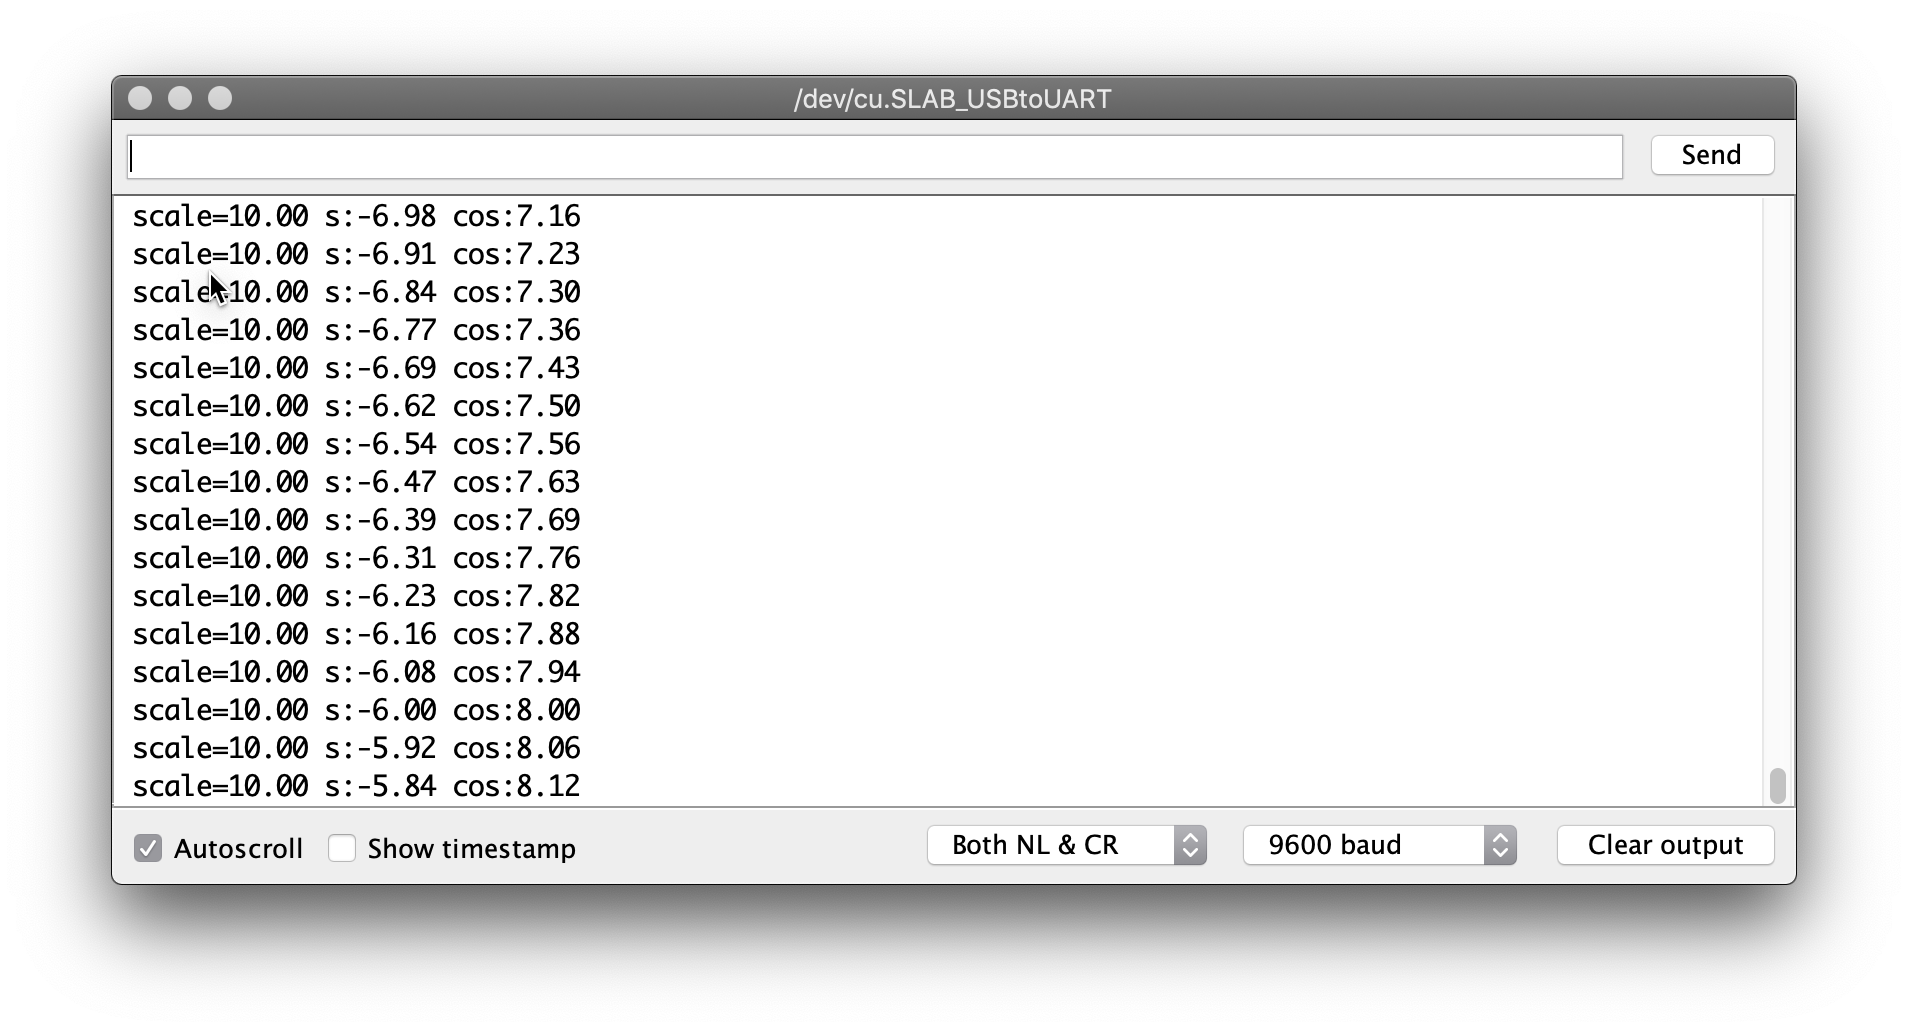
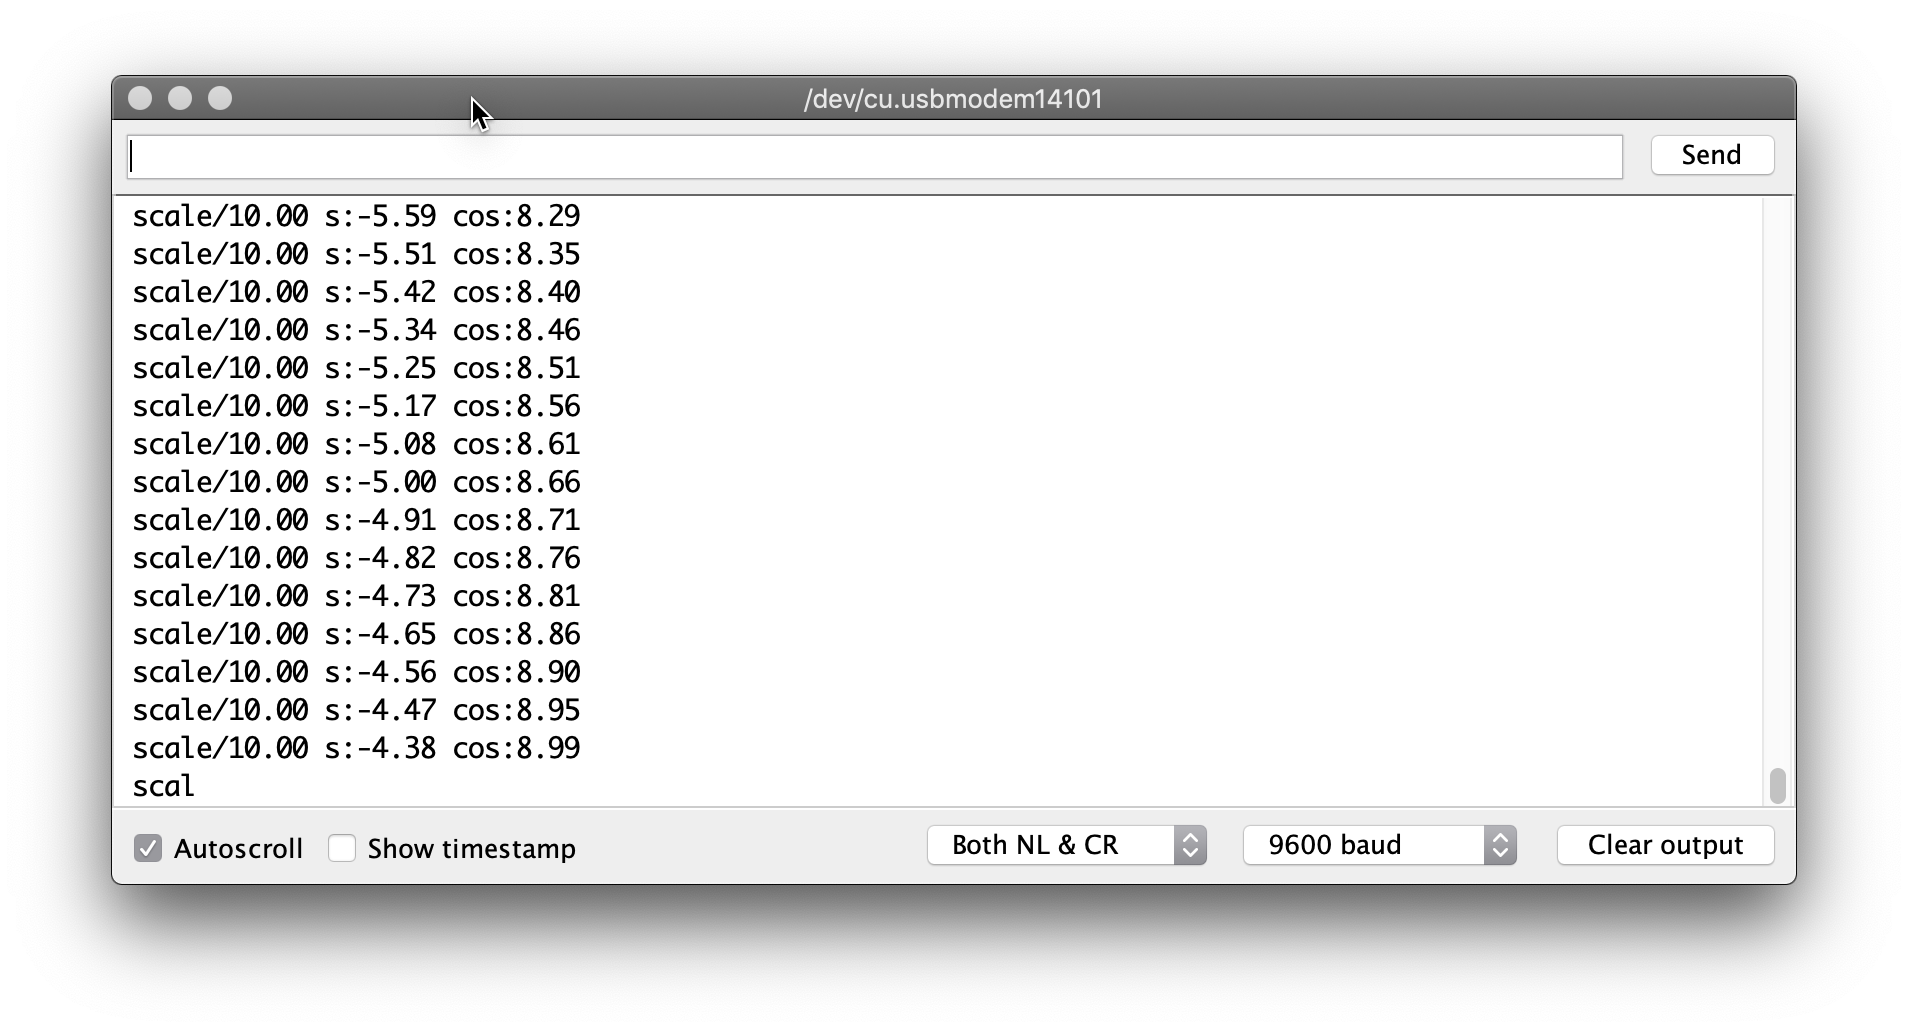
Changing DISPLAY delimiter from '=' to '/'.

diff --git a/src/ArrbotMonitor.h b/src/ArrbotMonitor.h
@@ -11,8 +11,8 @@
 // To disable output, #define NO_MONITOR_OUTPUT
 
 #ifndef NO_MONITOR_OUTPUT
-#define DISPLAY(v)        Serial.print(F(" " #v "="));   Serial.print(v)
-#define DISPLAY2(name, v) Serial.print(F(" " name "=")); Serial.print(v)
+#define DISPLAY(v)        Serial.print(F(" " #v "/"));   Serial.print(v)
+#define DISPLAY2(name, v) Serial.print(F(" " name "/")); Serial.print(v)
 #define MONITOR(v)        Serial.print(F(" " #v ":"));   Serial.print(v)
 #define MONITOR2(name, v) Serial.print(F(" " name ":")); Serial.print(v)
 #define MONITOR_ENDL()    Serial.println()

diff --git a/README.md b/README.md
@@ -11,7 +11,7 @@ The Arduino Plotter accepts named values in the following format
 
 The key and value are separated by a ':', and multiple key/value pairs
 are separated by white space.  If you separate the key and value
-with '=', it conveniently displays the key and value on the top line
+with '/', it conveniently displays the key and value on the top line
 with the other keys.
 
 Usage
@@ -22,7 +22,7 @@ Usage
   a variable name.
 - **MONITOR\_ENDL()** will end monitor output.
 - **DISPLAY(v)** and **DISPLAY2(k, v)** are similar to MONITOR and MONITOR2,
-  except they use '=' as a separator, giving a non-plotted display of
+  except they use '/' as a separator, giving a non-plotted display of
   the key and value.
 
 Defining the macro **NO\_MONITOR\_OUTPUT** removes all monitoring data from
@@ -62,3 +62,6 @@ Notes
 
 Sometimes a variable will appear twice at the top of the Arduino
 Serial Plotter window.  This seems to be a bug in the Plotter.
+
+The DISPLAY logic in the Serial Plotter is not documented.  I'm submitting
+a PR to document this and make it a standardized part of the interface.
